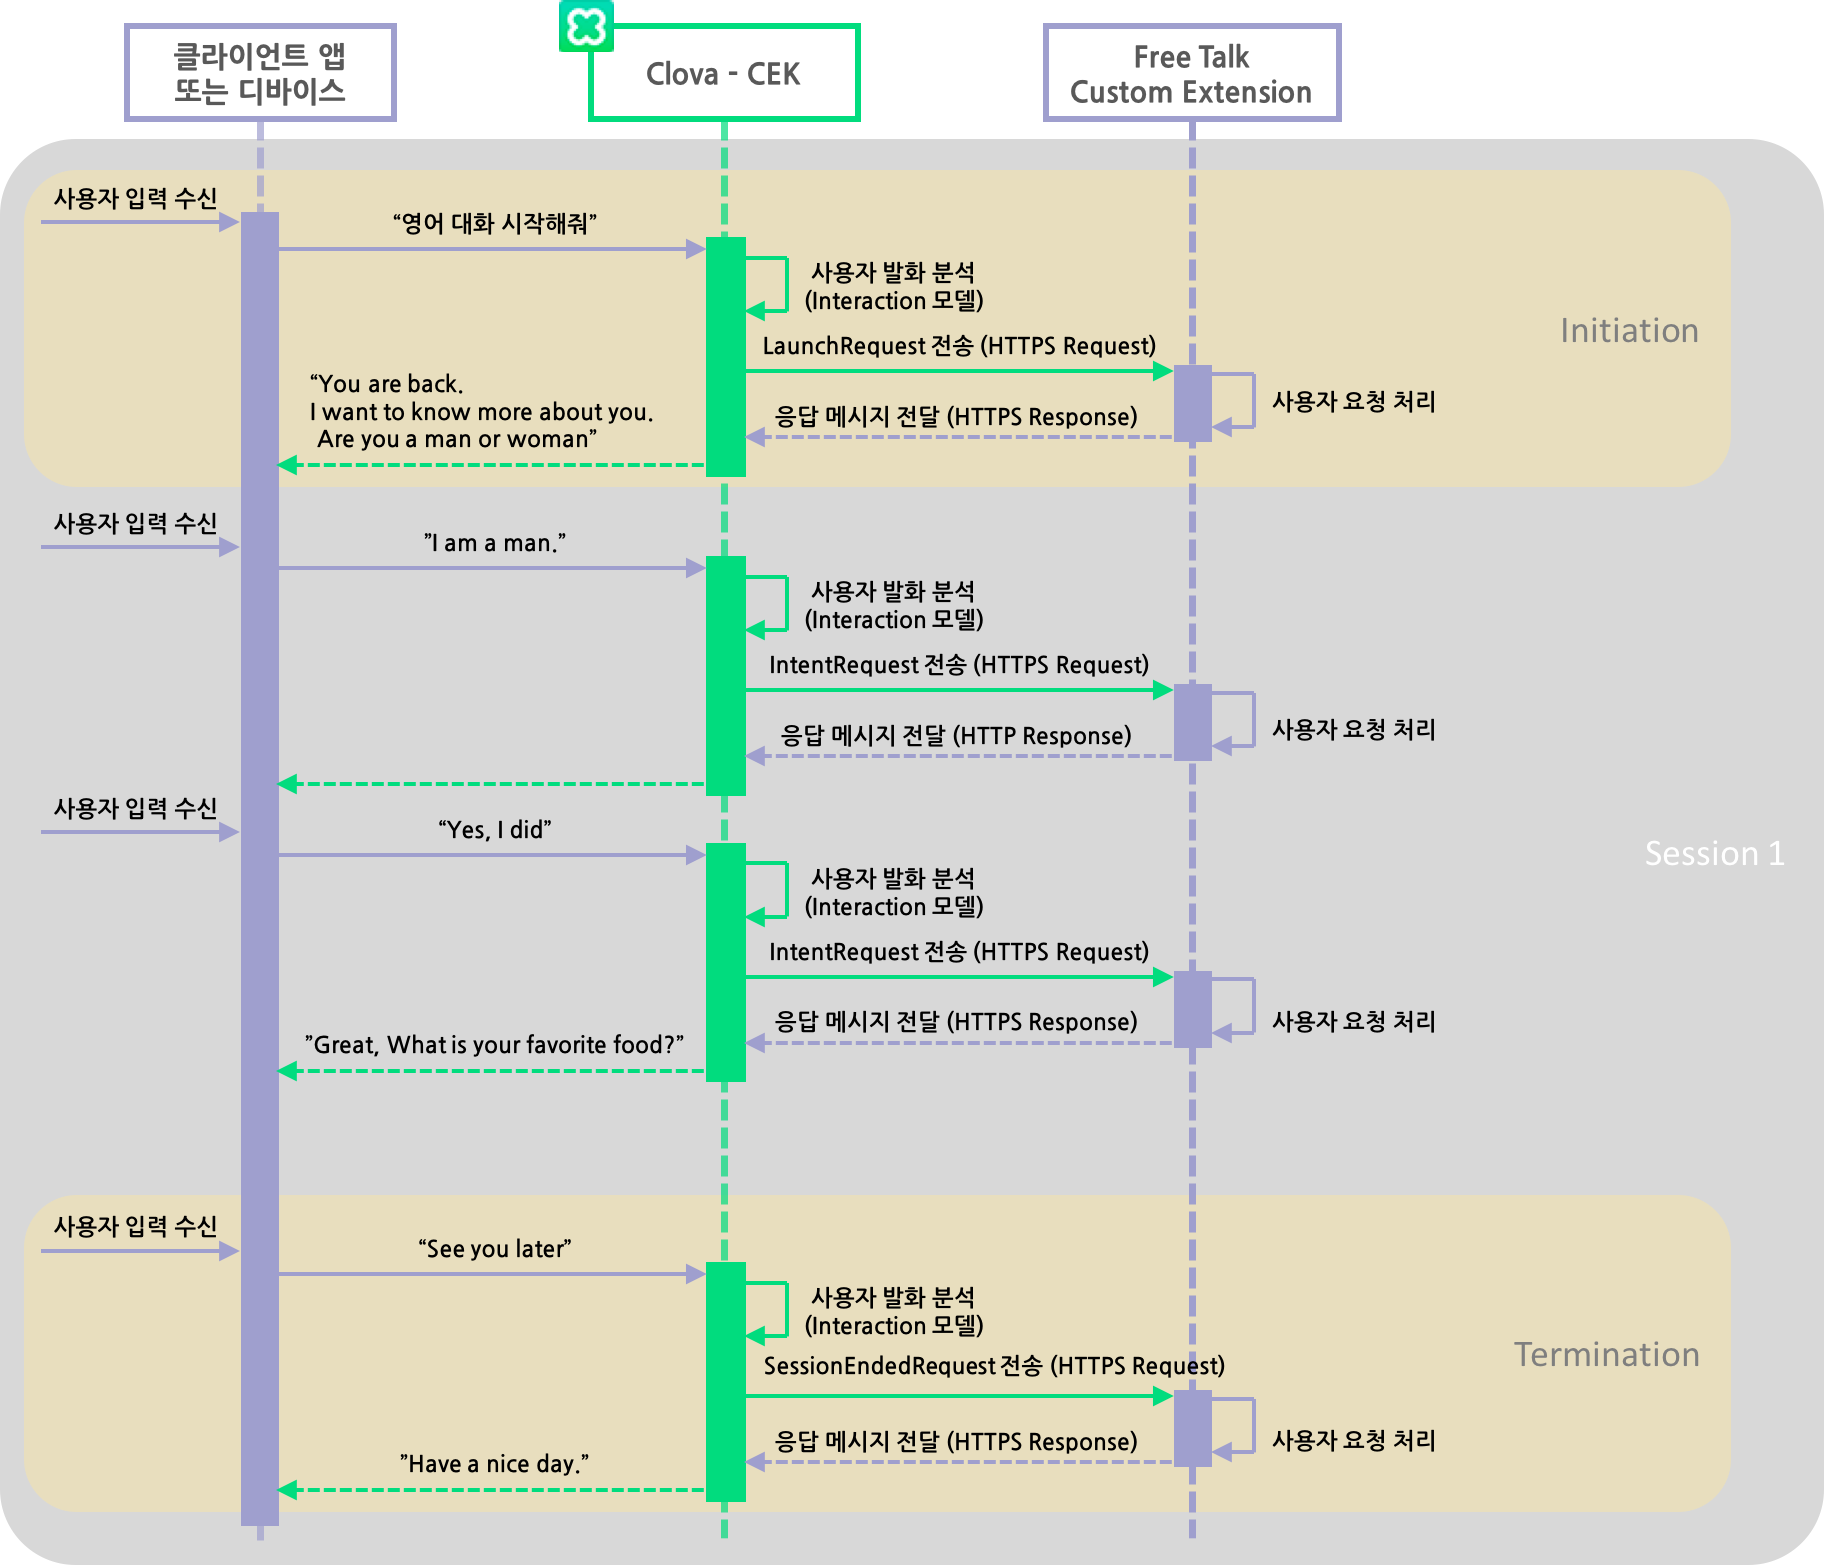
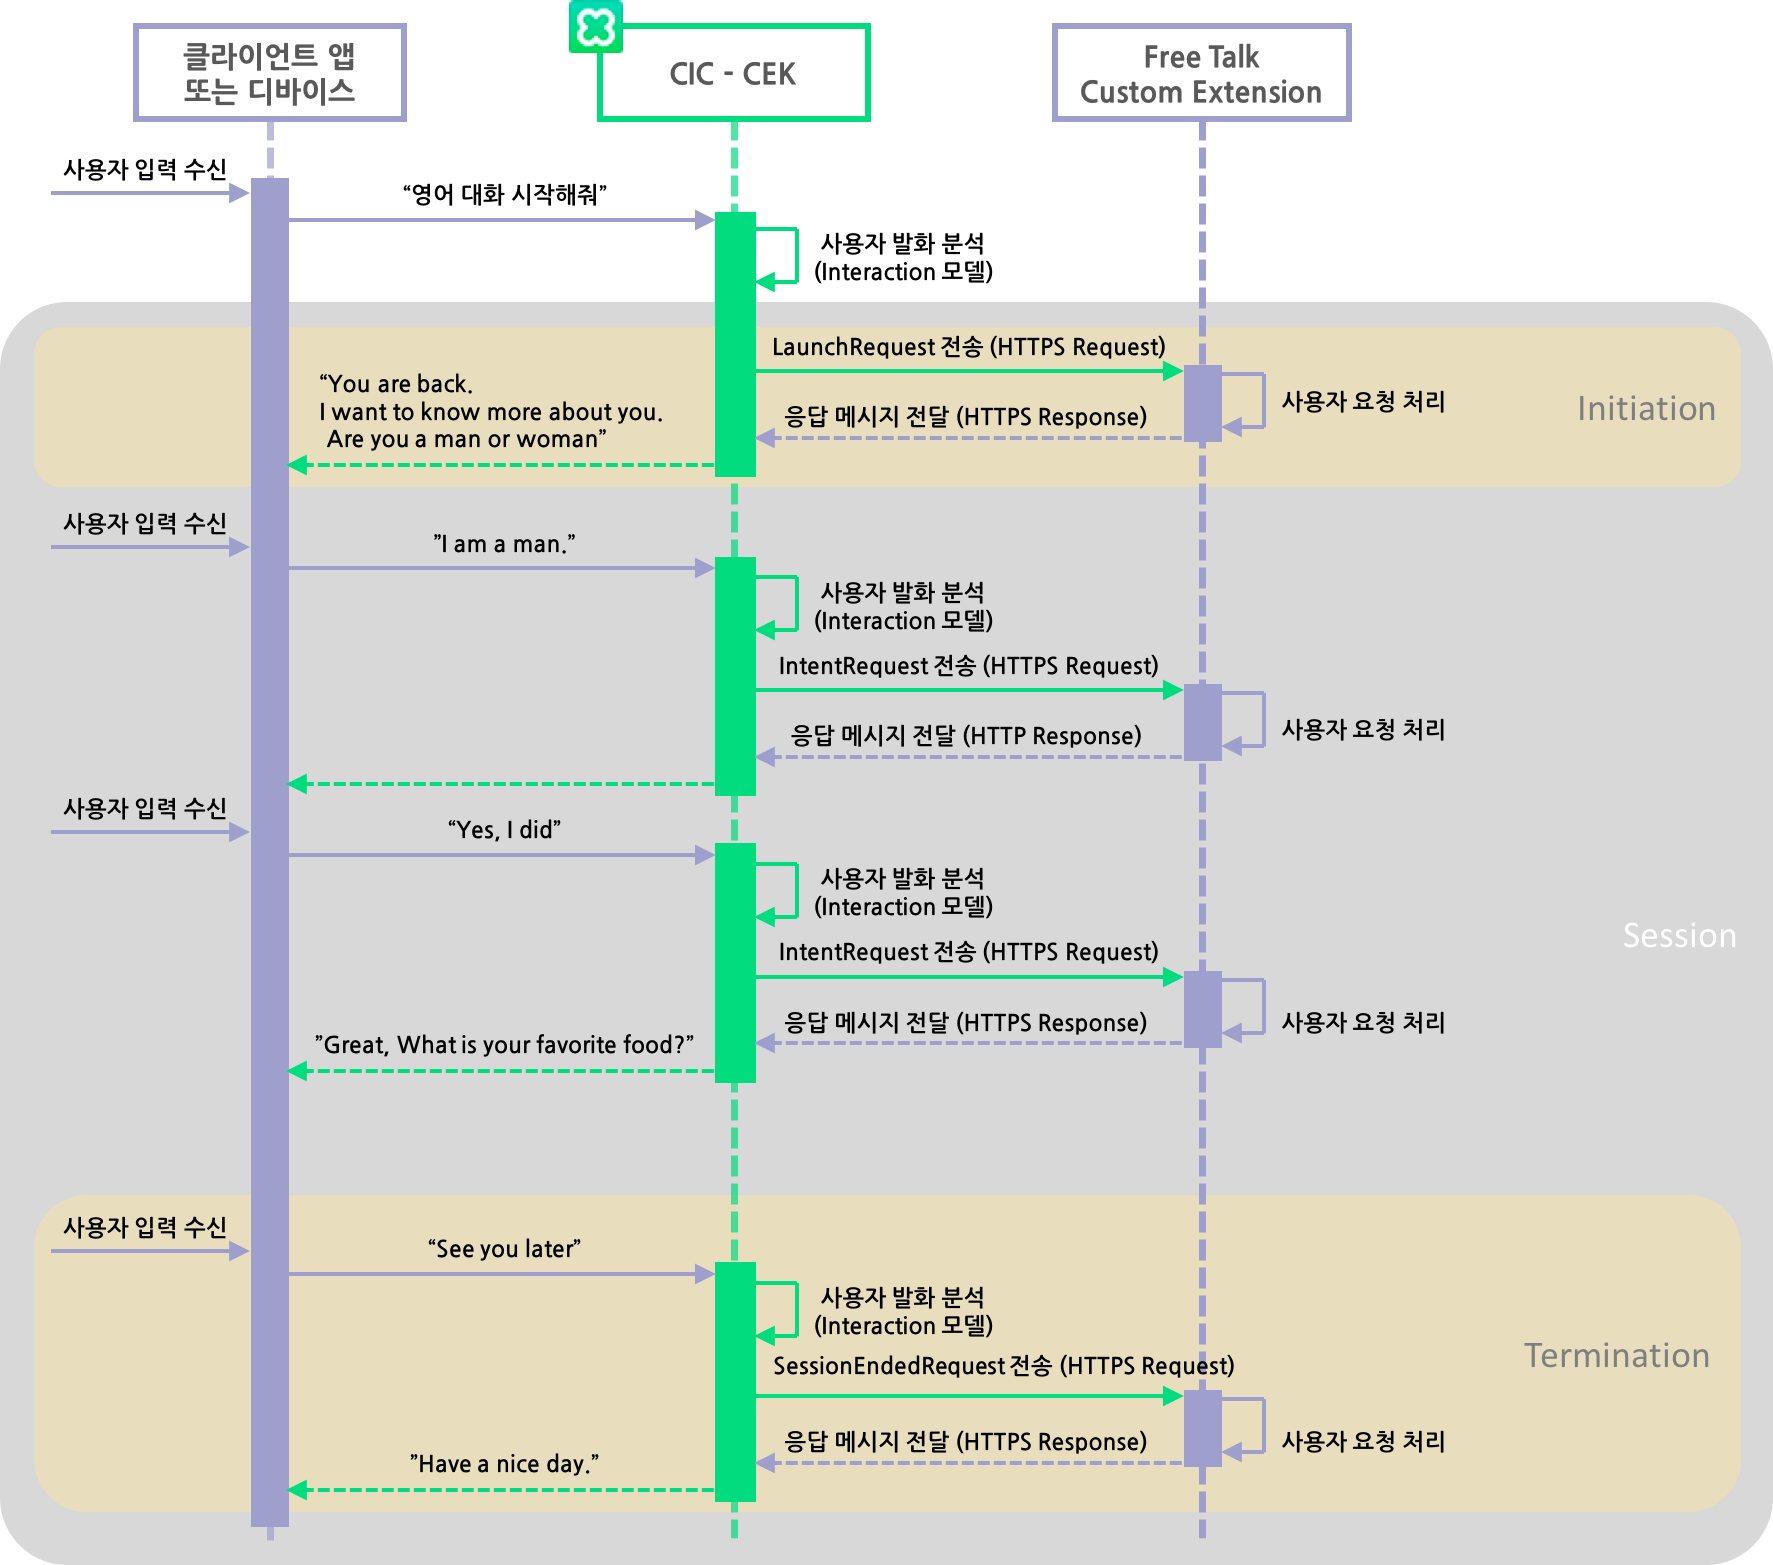
Modify CEK concept image. (#28)
Modified CEK concept image.

diff --git a/ko/CIC/References/Clova_Auth_API.md b/ko/CIC/References/Clova_Auth_API.md
@@ -12,7 +12,7 @@ https://auth.clova.ai
 {% endraw %}
 
 ## /authorize {#authorize}
-네이버 계정 access token 및 [클라이언트 인증 정보](/CIC/Guides/Interact_with_CIC.md#ClientAuthInfo) 등의 정보를 파라미터로 입력받아 인카 코드를 응답 메시지로 반환합니다. authorization code는 Clova access token을 발급받기 전 단계의 인증 정보입니다.
+네이버 계정 access token 및 [클라이언트 인증 정보](/CIC/Guides/Interact_with_CIC.md#ClientAuthInfo) 등의 정보를 파라미터로 입력받아 authorization code를 응답 메시지로 반환합니다. authorization code는 Clova access token을 발급받기 전 단계의 인증 정보입니다.
 
 <div class="note">
   <p><strong>Note!</strong></p>
